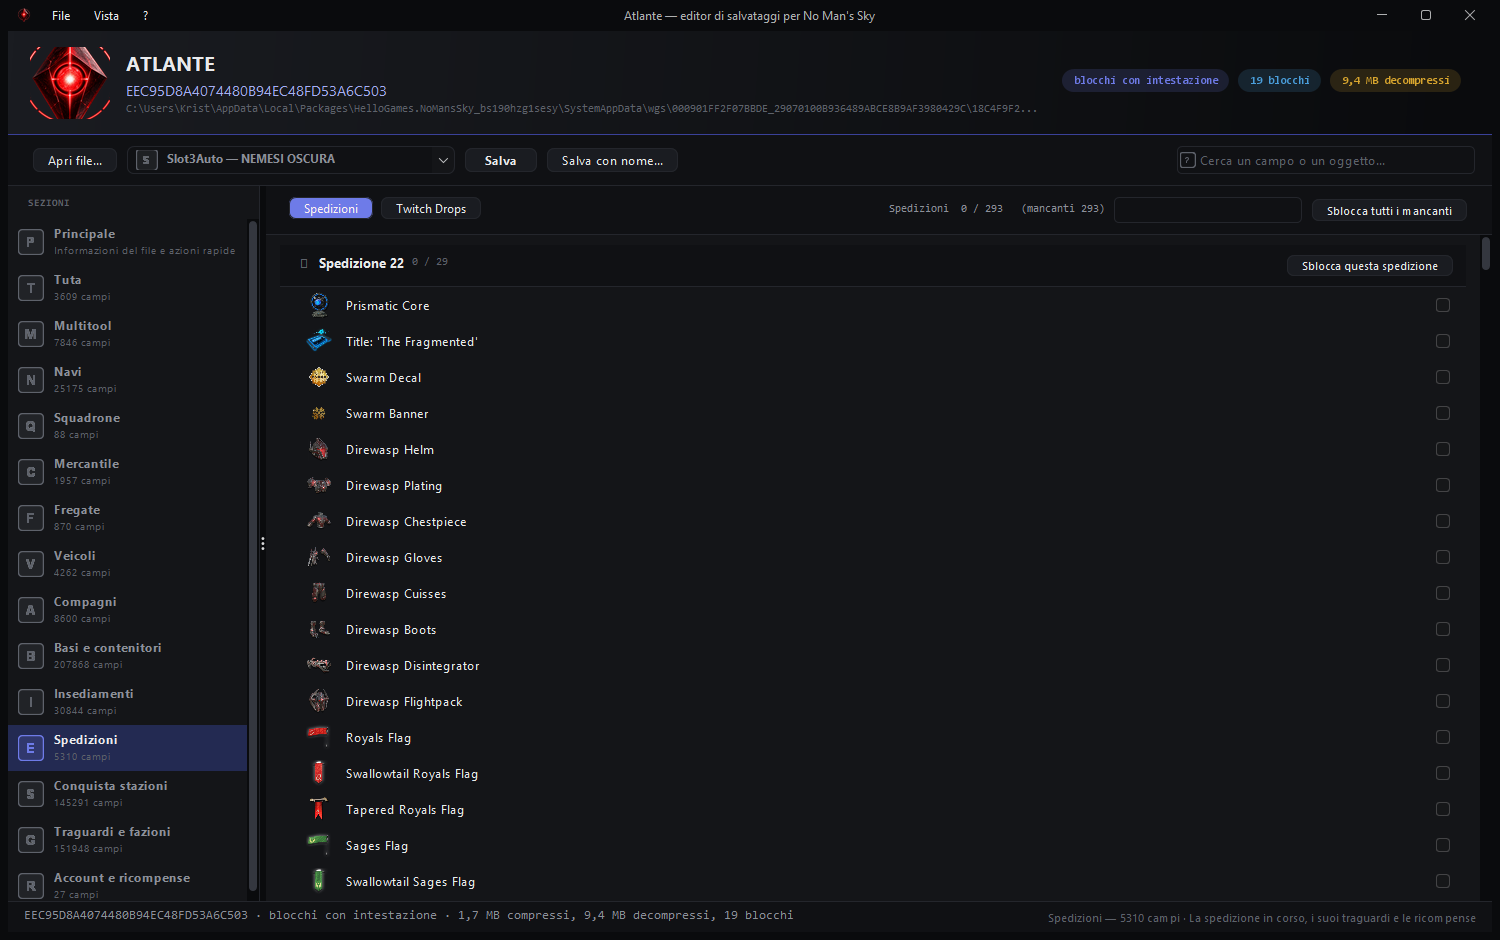
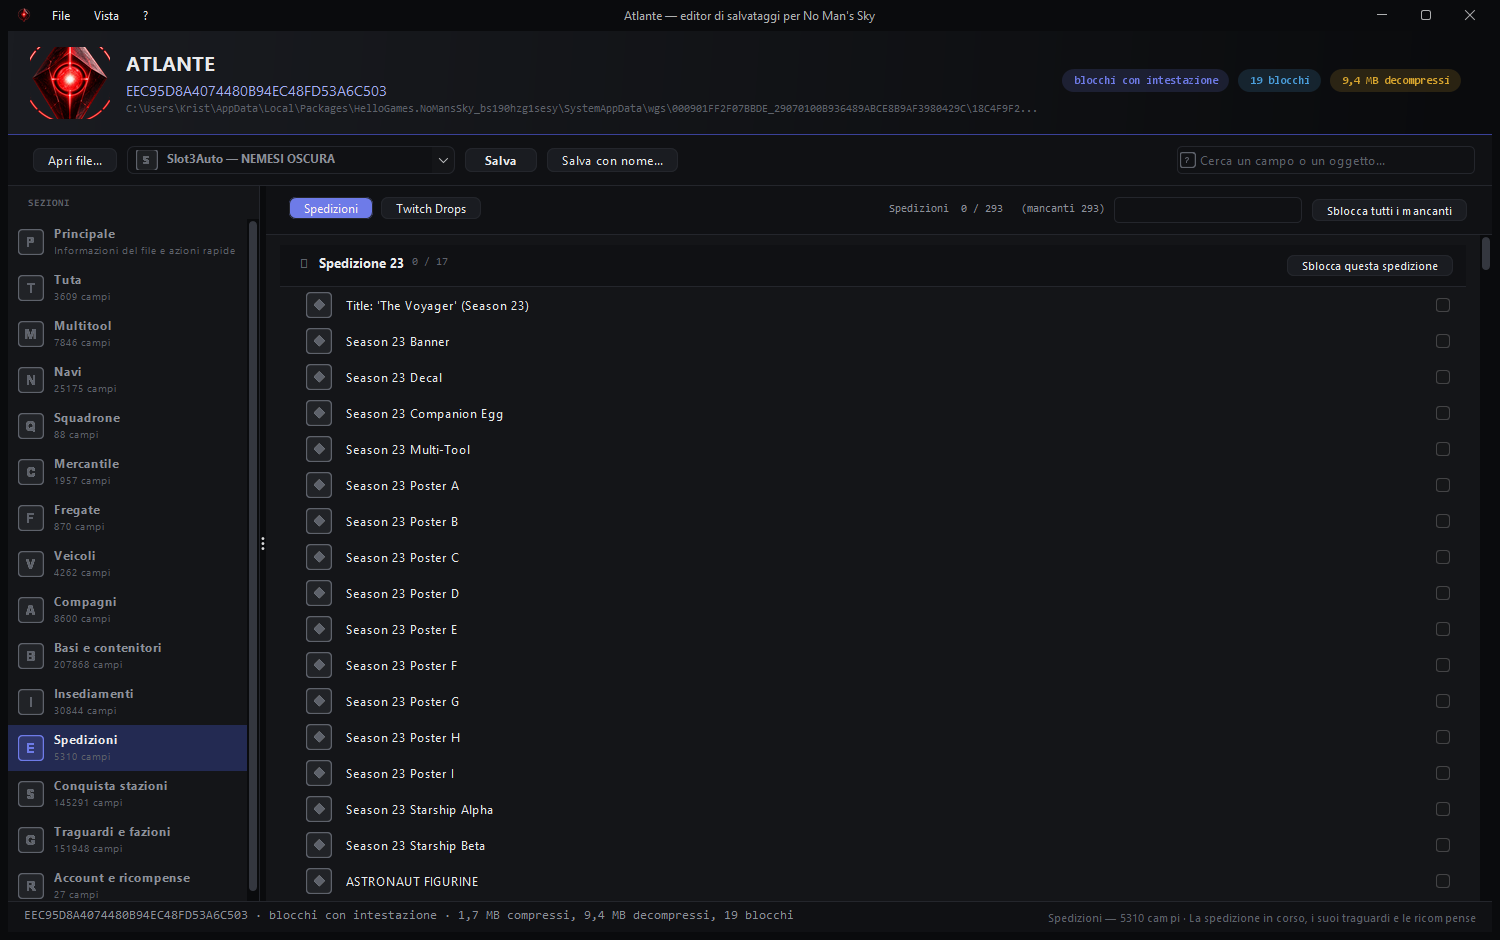
Spedizioni: ordine dei gruppi per numero decrescente
Il file dei premi non e' in ordine di numero: le spedizioni dalla 22 alla 1
sono in ordine decrescente, ma la 23 e' stata aggiunta in fondo. Senza
ordinare, la spedizione piu' recente finiva sotto la 1.

Ora i gruppi si ordinano per numero decrescente: 23, 22, 21, ... 1.

Changed region(s): [[0.184, 0.3085, 0.3373, 0.9564]]

diff --git a/src/it/atlante/finestra/Premi.java b/src/it/atlante/finestra/Premi.java
@@ -118,6 +118,26 @@ public final class Premi {
         while (t.find()) {
             TWITCH.add(new Premio(t.group(1), t.group(2), false));
         }
+
+        // L'ordine si ricalcola: il file non e' in ordine di numero. Le
+        // spedizioni dalla 22 alla 1 sono in ordine decrescente, ma la 23 e'
+        // stata aggiunta in fondo. Senza ordinare, la piu' recente finiva
+        // sotto la 1.
+        java.util.Collections.sort(spedizioni, new java.util.Comparator<Spedizione>() {
+            public int compare(Spedizione a, Spedizione b) {
+                if (a.numero == b.numero) {
+                    return 0;
+                }
+                // I gruppi senza numero (non dovrebbero essercene) in fondo.
+                if (a.numero < 0) {
+                    return 1;
+                }
+                if (b.numero < 0) {
+                    return -1;
+                }
+                return b.numero - a.numero;
+            }
+        });
         return spedizioni;
     }
 
